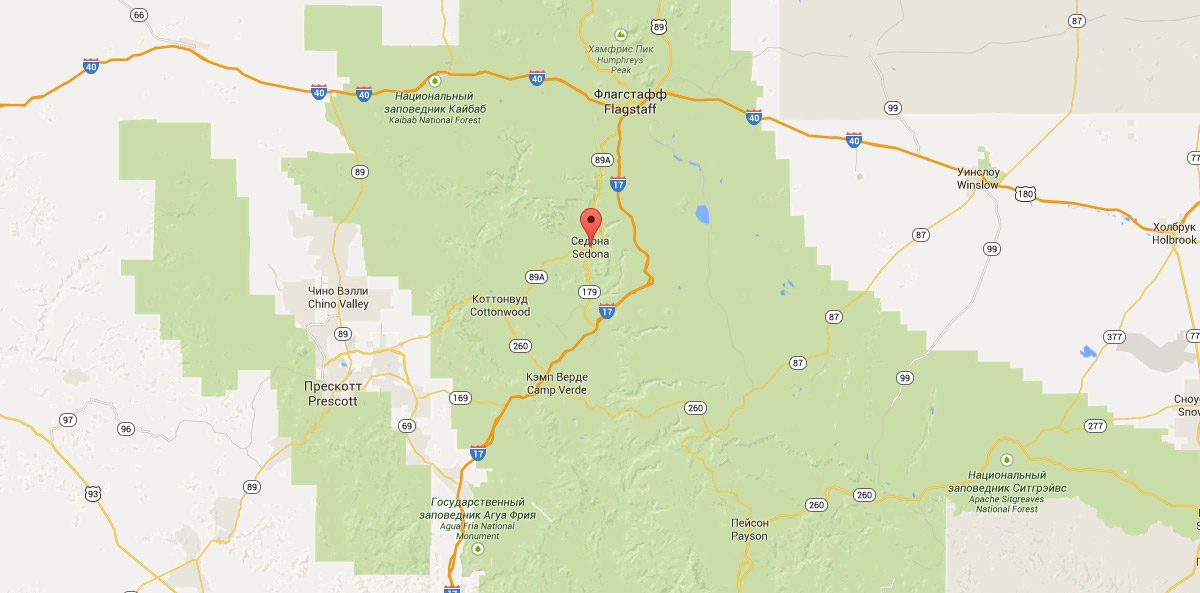
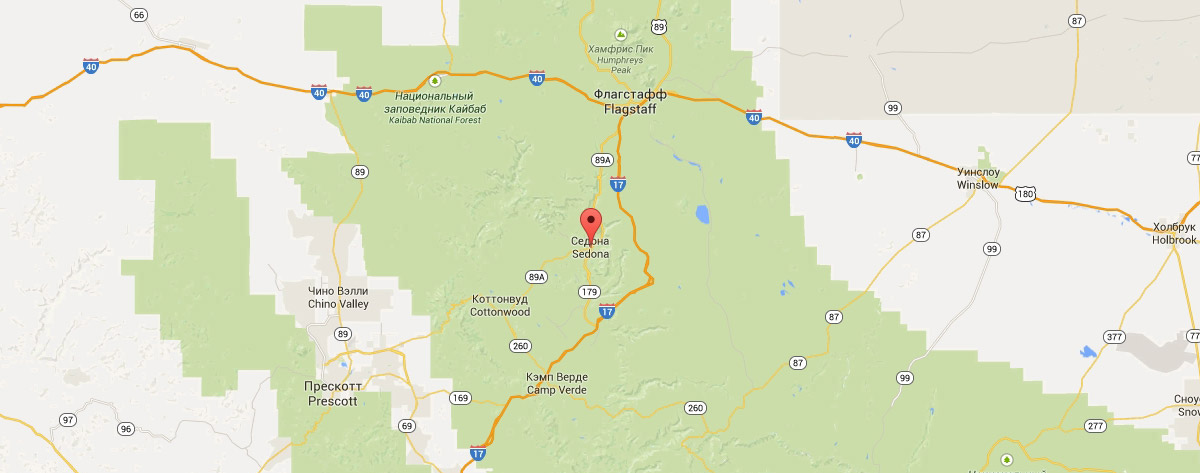
Доработка сетки и дизайна
Футер не доделан.

diff --git a/index.html b/index.html
@@ -54,14 +54,23 @@
       </section>
       <section class="advices">
         <div class="house">
+          <div class="advices-icon house-icon">
+            <img src="img/icon-house.png" width="75" height="72" alt="">
+          </div>
           <b>Жилье</b>
           <p>Рекомендуем пожить в настоящем мотеле, все как в кино!</p>
         </div>
         <div class="food">
+          <div class="advices-icon food-icon">
+            <img src="img/icon-burger.png" width="74" height="70" alt="">
+          </div>
           <b>Еда</b>
           <p>Всегда заказывайте фирменный бургер, вы не разочаруетесь!</p>
         </div>
         <div class="souvenir">
+          <div class="advices-icon souvenir-icon">
+            <img src="img/icon-souvenir.png" width="64" height="76" alt="">
+          </div>
           <b>Сувениры</b>
           <p>Не только китайского, но и местного производства!</p>
         </div>
@@ -78,29 +87,31 @@
       </section>
       <section class="features-without-photo">
         <div class="features-black">
-          <b class="features-name">Небольшая площадь</b>
+          <b>Небольшая площадь</b>
           <div>— №3 —</div>
           <p>Все достопримечательности находятся очень близко</p>
         </div>
         <div class="features-black">
-          <b class="features-name">Красивая дорога</b>
+          <b>Красивая дорога</b>
           <div>— №4 —</div>
           <p>Ехать в седону из лас-вегаса совсем не скучно!</p>
         </div>
         <div class="features-black">
-          <b class="features-name">Мало туристов</b>
+          <b>Мало туристов</b>
           <div>— №5 —</div>
           <p>Большинство едет в гранд каньон и толпится там</p>
         </div>
       </section>
-      <div class="question">
-        <h2>Заинтересовались?</h2>
-        <p>Укажите предполагаемые даты поездки, и мы покажем вам лучшие предложения гостиниц в седоне</p>
+      <div class="promo-block">
+        <div class="promo-question">
+          <b>Заинтересовались?</b>
+          <p>Укажите предполагаемые даты поездки,<br> и мы покажем вам лучшие предложения гостиниц в седоне</p>
+        </div>
       </div>
-      <div class="search-from-title">
+      <div class="search-from-title" hidden>
         <b>Поиск гостиницы в Седоне</b>
       </div>
-      <div class="search-form">
+      <div class="search-form" hidden>
         <form action="#" method="post">
           <div class="date">
             <label for="date-in-field">Дата заезда:</label>
@@ -120,23 +131,28 @@
         </form>
       </div>
       <div class="map-photo">
-        <img src="http://placehold.it/150x100" width="150" height="100" alt="Как нас найти">
+        <img src="img/background-map.jpg" width="1200" height="473" alt="Местоположение города">
+        <iframe src="https://www.google.com/maps/embed?pb=!1m18!1m12!1m3!1d498202.95006931084!2d-111.88122326992082!3d34.88270488061969!2m3!1f0!2f0!3f0!3m2!1i1024!2i768!4f13.1!3m3!1m2!1s0x872da132f942b00d%3A0x5548c523fa6c8efd!2z0KHQtdC00L7QvdCwLCDQkNGA0LjQt9C-0L3QsCA4NjMzNiwg0KHQqNCQ!5e0!3m2!1sru!2sru!4v1493389205749" width="1200" height="473" frameborder="0" style="border:0" allowfullscreen>
+        </iframe>
       </div>
     </main>
-    <footer class="container">
-      <section class="visit-sedona">
-        <a href="#">#visitsedona</a>
-      </section>
-      <section class="social">
-        <a href="#" class="social-twitter">Twitter</a>
-        <a href="#" class="social-facebook">Facebook</a>
-        <a href="#" class="social-youtube">Youtube</a>
-      </section>
-      <section class="copyright">
-        <a href="https://htmlacademy.ru/intensive/htmlcss" class="intensive">
-          <img src="img/logo-html-academy.png" width="113" height="39" alt="Website by html academy">
-        </a>
-      </section>
+    <footer class="main-footer">
+      <div class="container">
+        <section class="footer-block visit-sedona">
+          <a href="#">#visitsedona</a>
+        </section>
+        <section class="footer-block social">
+          <a href="#" class="social-twitter">Twitter</a>
+          <a href="#" class="social-facebook">Facebook</a>
+          <a href="#" class="social-youtube">Youtube</a>
+        </section>
+        <section class="footer-block copyright">
+          <div class="label-logo">Website by</div>
+          <a href="https://htmlacademy.ru/intensive/htmlcss" class="intensive">
+            <img src="img/logo-html-academy.png" width="113" height="39" alt="Website by html academy">
+          </a>
+        </section>
+      </div>
     </footer>
   </body>
 </html>

diff --git a/css/style.css b/css/style.css
@@ -11,7 +11,6 @@ body {
   font-family: "PT Sans", sans-serif;
   font-weight: normal;
   text-transform: uppercase;
-  outline: 1px solid red;
   margin: 0 auto;
   padding: 0;
 }
@@ -22,7 +21,6 @@ a {
 }
 .container {
   width: inherit;
-  outline: 1px solid red;
   margin: 0 auto;
   padding: 0;
 	position: relative;
@@ -34,7 +32,6 @@ a {
   padding-right: 6%;
   width: inherit;
   min-height: 56px;
-  outline: 1px solid red;
 }
 
 .top-navigation {
@@ -71,6 +68,7 @@ a {
 
 /*main*/
 
+
 .hero {
   width: 100%;
 	height: 508px;
@@ -98,7 +96,6 @@ a {
   width: inherit;
   min-height: 216px;
   background-color: white;
-	outline: 1px solid green;
 }
 
 .text-block h2 {
@@ -117,6 +114,10 @@ a {
 	margin: 0 300px;
 }
 
+
+/*features №1 and №2*/
+
+
 .features-with-photo {
 	background-color: #81B3D2;
 	height: 256px;
@@ -129,47 +130,30 @@ a {
   vertical-align: top;
 }
 
-.features-white b {
-	display: block;
-	font-size: 21px;
-}
-
 .features-white b,
 .features-white div,
 .features-white p {
-	margin: 0 50px;
+	margin: 0 45px;
 	text-align: center;
 	color: white;
+}
+
+.features-white b {
+	display: block;
+	font-size: 21px;
+	margin: 0 100px;
+	margin-top: 46px;
+}
+
+.features-white div {
+	margin-top: 24px;
+	margin-bottom: 22px;
 }
 
 .city-view {
   display: inline-block;
   width: 66%;
-	height: 256px;
-}
-
-
-
-.advices {
-  outline: 1px solid red;
-  min-height: 330px;
-  text-align: center;
-  vertical-align: middle;
-}
-
-.advices .house {
-  float: left;
-  width: 33%;
-}
-
-.advices .food {
-  float: left;
-  width: 33%;
-}
-
-.advices .souvenir {
-  float: left;
-  width: 33%;
+	border: none;
 }
 
 .bridge-view {
@@ -178,12 +162,159 @@ a {
   border: none;
 }
 
+
+/*advices-block*/
+
+
+.advices {
+  min-height: 330px;
+	text-align: center;
+}
+
+.advices .house {
+	position: relative;
+  float: left;
+  width: 33%;
+}
+
+.advices .food {
+	position: relative;
+  float: left;
+  width: 33%;
+}
+
+.advices .souvenir {
+	position: relative;
+  float: right;
+  width: 33%;
+}
+
+.advices b {
+	display: block;
+	font-size: 21px;
+	margin-top: 160px;
+}
+
+.advices p {
+	margin: 25px 50px 0 50px;
+
+}
+
+.advices-icon {
+	position: absolute;
+	left: 50%;
+}
+
+.house-icon {
+	margin-left: -37.5px;
+	top: 60px;
+}
+
+.food-icon {
+	margin-left: -37px;
+	top: 61px;
+}
+
+.souvenir-icon {
+	margin-left: -32px;
+	top: 56px;
+}
+
+
+	/*features №3, №4 and №5*/
+
+
 .features-without-photo {
-  background-color: #f2f2f2;
+  background-color: #eeeeee;
+	min-height: 256px;
 }
 
 .features-black {
   float: left;
   width: 33%;
   text-align: center;
+}
+
+.features-black:last-child {
+	float:right;
+}
+
+.features-black b {
+	font-size: 21px;
+	display: block;
+	margin: 46px 118px 0 118px;
+}
+
+.features-black div {
+	margin-top: 24px;
+}
+
+.features-black p {
+	margin: 20px 65px 0 65px;
+}
+
+
+/*promo-questiom*/
+
+
+.promo-block {
+	min-height: 291px;
+}
+
+.promo-question b,
+.promo-question p {
+	display: block;
+	text-align: center;
+	line-height: 24px;
+}
+
+.promo-question {
+	padding-top: 56px;
+}
+
+.promo-question b {
+	font-size: 30px;
+}
+
+.promo-question p {
+	margin-top: 30px;
+	margin-bottom: 0;
+}
+
+
+/*map-block*/
+
+
+.map-photo {
+	width: inherit;
+	height: 473px;
+	position: relative;
+}
+
+.map-photo iframe {
+	position: absolute;
+	top: 0;
+}
+
+
+/*footer*/
+
+
+.main-footer {
+	width: inherit;
+	min-height: 120px;
+	outline: 1px solid green;
+}
+
+.footer-block {
+	display: inline-block;
+	width: 33%;
+	margin-top: 20px;
+	text-align: center;
+}
+
+.visit-sedona {
+	font-size: 21px;
+	font-weight: bold;
+	line-height: 26px;
 }
